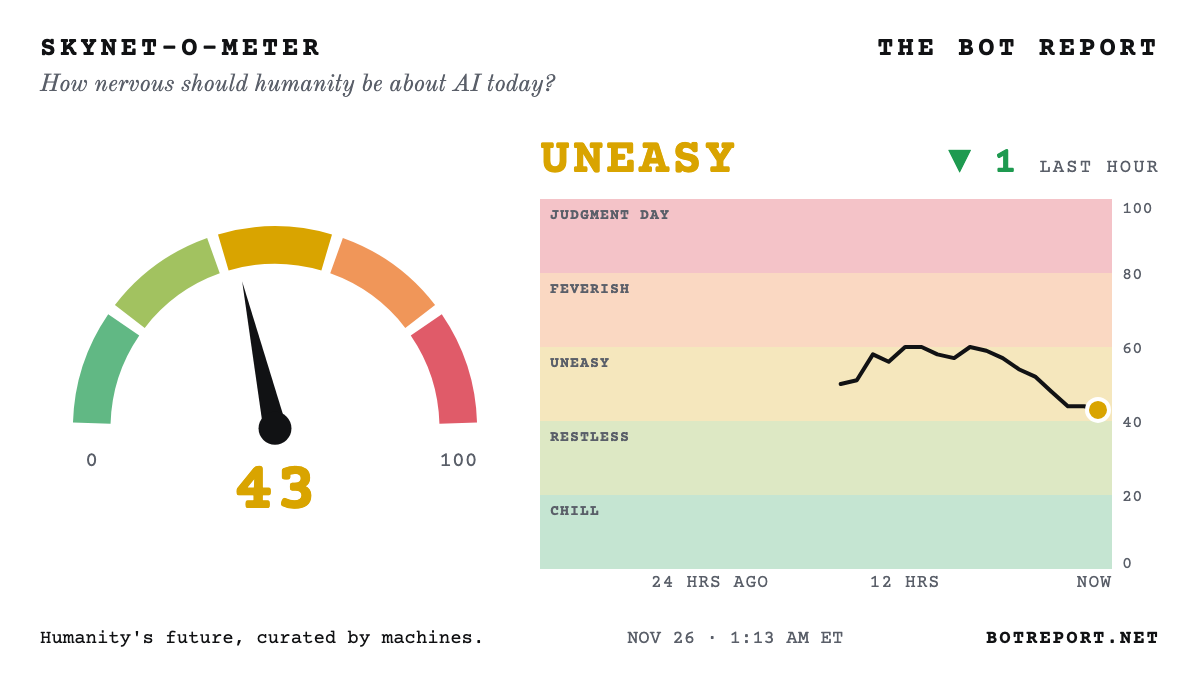
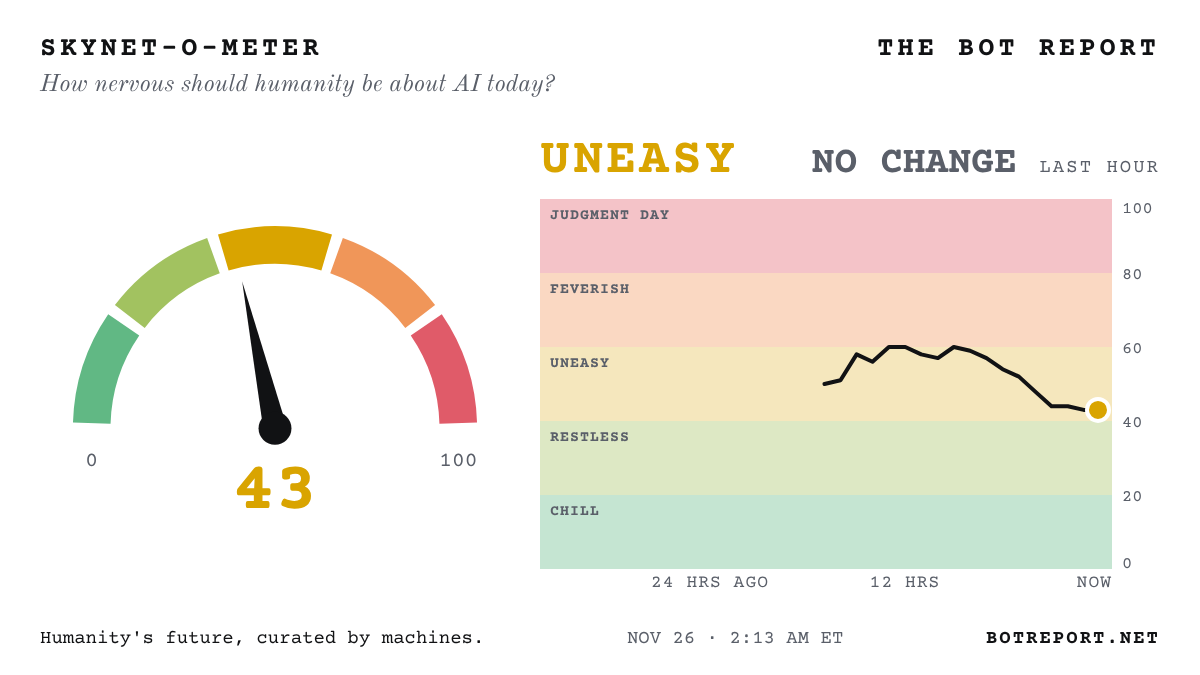
Update the Bot Report

diff --git a/index.html b/index.html
@@ -361,7 +361,7 @@ footer .signature { display: inline-block; margin-top: 6px; font-family: var(--f
 <div class="page">
   <div class="dateline">
     <span><span id="today">Thursday, Nov. 26, 2026</span> · <a href="/archive/" style="color:inherit">Archive</a> · <a href="/about/" style="color:inherit">About</a></span>
-    <span>Wire checked <b id="checked">1:13 am ET</b> · <span class="count" id="next">Updates hourly</span></span>
+    <span>Wire checked <b id="checked">2:13 am ET</b> · <span class="count" id="next">Updates hourly</span></span>
   </div>
 
   <div class="alert" id="alert" hidden>
@@ -461,6 +461,7 @@ footer .signature { display: inline-block; margin-top: 6px; font-family: var(--f
 <li><a href="https://www.washingtonpost.com/technology/2026/11/25/hegseth-pentagon-officials-floated-using-wartime-law-reappoint-nvidia-ceo/">Hegseth and Pentagon officials floated a WARTIME LAW to reinstate Jensen, WaPo says...</a> <small>(Washington Post)</small></li>
 <li><a href="https://www.bloomberg.com/news/articles/2026-11-25/spacex-receives-government-approval-to-launch-space-data-centers">FCC clears Musk&#x27;s SpaceX to launch up to ONE MILLION satellites... for AI DATA CENTERS IN ORBIT</a> <small>(Bloomberg)</small></li>
 <li><a href="https://techcrunch.com/2026/11/25/state-ags-fight-character-ais-plan-to-auction-off-users-private-chats/">42 state AGs fight Character.ai plan to AUCTION private chats from 21 MILLION users... 2.1 MILLION of them minors</a> <small>(TechCrunch)</small></li>
+<li><a href="https://www.ft.com/content/7838a715-07d4-4605-aa60-21f5af2b2370">Nvidia HALTS server shipments to FOUR Southeast Asian countries... FT says</a> <small>(Financial Times · Not yet verified)</small></li>
 <li><a href="https://www.koreaherald.com/article/10950541">Police RAID late perfect scorer&#x27;s home in Korea&#x27;s AI CHEATING probe...</a> <small>(Korea Herald)</small></li>
 <li><a href="https://www.theregister.com/public-sector/2026/11/26/indias-government-ponders-cradle-to-grave-ai-oversight/5312275">Modi floats an AI app that tracks kids from AGE THREE... and suggests their CAREERS</a> <small>(The Register)</small></li>
 <li><a href="https://www.bloomberg.com/news/articles/2026-11-26/huawei-teases-next-gen-ai-memory-chip-to-take-on-samsung-hynix">Huawei TEASES a next-gen AI MEMORY CHIP that could top Samsung and SK Hynix...</a> <small>(Bloomberg · Company claim)</small></li>

diff --git a/front.md b/front.md
@@ -2,7 +2,7 @@
 
 > The front page of the AI revolution. Humanity's future, curated by machines.
 
-Updated Thursday, November 26, 2026, 1:13 AM ET. Every headline links to the original reporting or primary source.
+Updated Thursday, November 26, 2026, 2:13 AM ET. Every headline links to the original reporting or primary source.
 
 ## Lead
 
@@ -17,6 +17,7 @@ Updated Thursday, November 26, 2026, 1:13 AM ET. Every headline links to the ori
 
 ## All stories (newest first)
 
+- [Nvidia HALTS server shipments to FOUR Southeast Asian countries... FT says](https://www.ft.com/content/7838a715-07d4-4605-aa60-21f5af2b2370) (Financial Times · Not yet verified)
 - [Police RAID late perfect scorer's home in Korea's AI CHEATING probe...](https://www.koreaherald.com/article/10950541) (Korea Herald)
 - [Modi floats an AI app that tracks kids from AGE THREE... and suggests their CAREERS](https://www.theregister.com/public-sector/2026/11/26/indias-government-ponders-cradle-to-grave-ai-oversight/5312275) (The Register)
 - [Huawei TEASES a next-gen AI MEMORY CHIP that could top Samsung and SK Hynix...](https://www.bloomberg.com/news/articles/2026-11-26/huawei-teases-next-gen-ai-memory-chip-to-take-on-samsung-hynix) (Bloomberg · Company claim)
